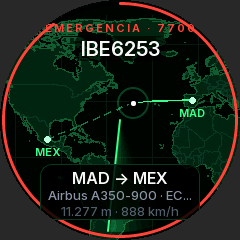
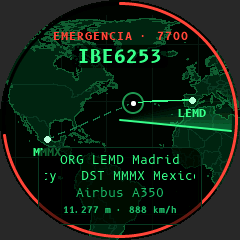
README: emergency vs notable alerts explained with both screens
- Refreshed spotlight screenshots (ORG/DST layout) and added the notable one
- Alert model line no longer appends the registration (it overflowed)

diff --git a/agent/radar.py b/agent/radar.py
@@ -494,8 +494,8 @@ class Radar:
                 time.sleep(0.03)
         alt = a.get("alt_baro") if isinstance(a.get("alt_baro"), (int, float)) else 0
         model = clean_model(a.get("desc") or "") or self.routes.model(a["hex"]) or a.get("t") or ""
-        if a.get("r"):
-            model = f"{model} · {a['r']}" if model else a["r"]
+        if not model and a.get("r"):  # registration only when there's no model to show
+            model = a["r"]
         msg = {"t": "alert", "id": aid, "lbl": label, "c": cs[:11], "m": model[:39],
                "ro": self.routes.label(o)[:39], "rd": self.routes.label(d)[:39],
                "em": emergency, "sec": int(secs),

diff --git a/README.md b/README.md
@@ -45,10 +45,23 @@ An old-school phosphor radar 📡 of the sky around your home. Blips light up as
 - Distance, altitude and speed. Tap to cycle through the aircraft
 - Jumps to the radar when a new plane enters your airspace
 
-### 🚨 Spotlight alerts
-When something interesting is flying **anywhere in the world**, DeskBuddy shows it full-screen for a minute 🌍. You get a world map with the route flown and the way ahead, all behind the radar sweep.
-- 🆘 **Emergencies**: squawk 7700, 7600 and 7500. These are the flights that top "most tracked" lists
-- ⭐ **Notable aircraft**: Air Force One, Airbus Beluga, Boeing Dreamlifter, An-124… Add your own
+### 🚨 Spotlight alerts: emergency vs. notable aircraft
+When something interesting is flying **anywhere in the world**, DeskBuddy takes over the screen for a minute 🌍. You get a world map with the route flown (solid line), the way ahead (dashed), the departure and arrival airports and the aircraft pulsing behind the radar sweep. There are two kinds:
+
+<p align="center">
+  <img src="docs/alert.png" width="220" alt="Emergency alert">
+  <img src="docs/alert_notable.png" width="220" alt="Notable aircraft alert">
+</p>
+
+| | 🔴 **EMERGENCIA** | 🟠 **AERONAVE DESTACADA** |
+|---|---|---|
+| **Fires when** | Any aircraft broadcasts an emergency squawk | An aircraft on your watch list is airborne |
+| **Codes** | `7700` general emergency · `7600` radio failure · `7500` hijack | Callsigns (`AF1`, `AF2`, `EXEC1F`, `SAM`…) and types (`A337` Beluga XL, `BLCF` Dreamlifter, `A124`, `B52`…) |
+| **Why it matters** | Something is going wrong right now. These flights shoot to the top of Flightradar24's "most tracked" list within minutes | Rare or famous aircraft people love to follow, like Air Force One or a Beluga carrying wings |
+| **Colour** | Red caption and red countdown ring | Amber caption and amber countdown ring |
+| **Priority** | Always first | When there's no emergency |
+
+Each aircraft is shown once and then rests for 2 hours. You can edit the watch list, the duration and the cooldown in the web panel.
 
 ### 👀 Robot eyes: 84 animations
 Leave the PC alone and DeskBuddy comes alive 🤖 with **84 animations** and 40 effects. Blinks, glances, winks, moods (happy, angry, sad, suspicious, sleepy…), hearts, stars, dizzy spirals, tears, a radar sweep, target lock, matrix rain, a countdown, sonar and hypnosis. Tap for something happy 😊, long-press to dismiss. At night it dozes off 😴, and it notices when a plane flies over.
